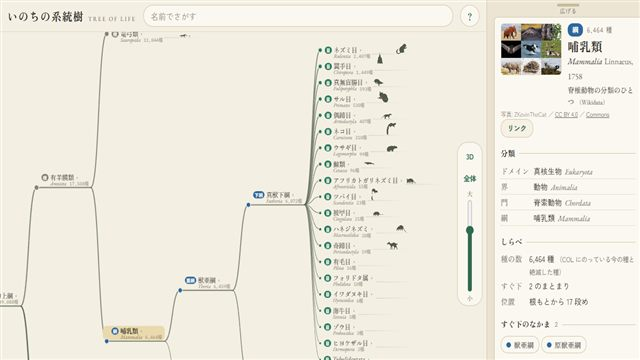
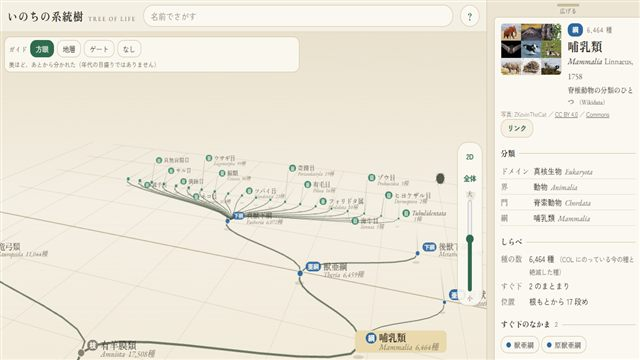
v012-3d-default いのちの系統樹: はじめから 3D、詳細のつまみはドラッグでなめらかに大きさを変える（PC は左のふちでも）、3D のマウスは右で回転・左と中で平行移動、遠い名前を出しやすく、開いたときのカメラは親が画面に残るところまで

diff --git a/tree-of-life/js/view3d.js b/tree-of-life/js/view3d.js
@@ -26,7 +26,7 @@ const V3 = (() => {
   function P(x, y, z) {
     const dx = x - C0[0], dy = y - C0[1], dz = z - C0[2];
     const zc = dx * Fw[0] + dy * Fw[1] + dz * Fw[2];
-    if (zc < 20) return null;
+    if (!(zc >= 20)) return null;   // カメラのうしろ（NaN もここで落とす）
     const s = F / zc;
     return [W / 2 + (dx * R[0] + dy * R[1] + dz * R[2]) * s, H / 2 - (dx * U[0] + dy * U[1] + dz * U[2]) * s, s, zc];
   }
@@ -186,11 +186,20 @@ const V3 = (() => {
     // 名前を出すか決める（えらんだもの・手前を優先。うんと遠いものは出さない）
     labels.sort((x, y) => (y.n === sel) - (x.n === sel) || x.p[3] - y.p[3]);
     for (const L of labels) {
-      if (L.kr < 0.22 && L.n !== sel) continue;   // うんと遠いものは名前を出さない
-      const lw = L.n.lw * L.k + 10;
-      const rect = [L.p[0] - L.r - 4, L.p[1] - L.fs * 1.5, L.p[0] + L.r + 6 + lw, L.p[1] + L.fs * 0.7];
-      if (taken.some(t => rect[0] < t[2] && t[0] < rect[2] && rect[1] < t[3] && t[1] < rect[3])) continue;
-      taken.push(rect); L.show = true; L.rect = rect;
+      if (L.kr < 0.1 && L.n !== sel) continue;   // うんと遠いものは名前を出さない
+      // 遠い（字が小さい）ものは名前（1段め）だけの小さな札にして、場所を取りすぎないように
+      L.one = L.fs < 10.5 && L.n !== sel;
+      const parts = V.labelParts(L.n);
+      const w1 = (V.tw(parts.main, "14px 'Zen Old Mincho','Yu Mincho',serif") + (parts.tag ? 24 : 0)) * L.k + 8;
+      const lw = L.one ? w1 : Math.max(w1, L.n.lw * L.k + 10);
+      const m = 2;   // 少しの重なりは許す
+      const free = rc => !taken.some(t => rc[0] + m < t[2] && t[0] + m < rc[2] && rc[1] + m < t[3] && t[1] + m < rc[3]);
+      // 置き場所の候補: 点の右 → 少し上 → 少し下（ずらしたときは細い線で点とつなぐ）
+      const hh = L.fs * (L.one ? 1.5 : 2.2);
+      for (const dy of [0, -hh, hh, -2 * hh]) {
+        const rect = [L.p[0] - L.r - 3, L.p[1] + dy - L.fs * (L.one ? 1.3 : 1.5), L.p[0] + L.r + 4 + lw, L.p[1] + dy + L.fs * (L.one ? 0.2 : 0.7)];
+        if (free(rect)) { taken.push(rect); L.show = true; L.rect = rect; L.dy = dy; break; }
+      }
     }
     // 遠いものから描く（手前が上に）
     labels.sort((x, y) => y.p[3] - x.p[3]);
@@ -198,7 +207,7 @@ const V3 = (() => {
     for (const L of labels) {
       const { p, n, k, fs, r, a } = L;
       const col = GROUP_COLOR[RANK_GROUP(n.rank)];
-      g.globalAlpha = a * (n.alpha === undefined ? 1 : n.alpha);
+      g.globalAlpha = (L.show ? Math.max(0.6, a) : a) * (n.alpha === undefined ? 1 : n.alpha);   // 名前を出すものは、遠くても うすくしすぎない
       // 地面への影（立っている感じ）
       const pg = P(X(n), GROUND, Z(n));
       if (pg) { g.fillStyle = 'rgba(90,80,50,.18)'; g.beginPath(); g.ellipse(pg[0], pg[1], r * 1.6, r * 0.5, 0, 0, 7); g.fill(); }
@@ -207,7 +216,8 @@ const V3 = (() => {
       picks.push({ n, x: p[0], y: p[1], rect: L.show ? L.rect : [p[0] - r - 6, p[1] - r - 6, p[0] + r + 6, p[1] + r + 6] });
       if (!L.show) continue;
       const parts = V.labelParts(n);
-      const ly = p[1] - fs * 0.75;
+      const ly = p[1] - fs * 0.75 + (L.dy || 0);
+      if (L.dy) { g.strokeStyle = 'rgba(110,103,87,.45)'; g.lineWidth = 0.8; g.beginPath(); g.moveTo(p[0], p[1]); g.lineTo(p[0] + r + 3, ly + fs * 0.35); g.stroke(); }
       if (n === sel || n === hov) {
         g.fillStyle = n === sel ? '#ead9ad' : '#ebe3cf';
         const [x0, y0, x1, y1] = L.rect; roundRect(g, x0, y0, x1 - x0, y1 - y0, 8); g.fill();
@@ -223,7 +233,7 @@ const V3 = (() => {
       g.fillStyle = '#2c2a24';
       g.font = parts.sciMain ? `italic ${fs.toFixed(1)}px 'EB Garamond',Georgia,serif` : `${n === sel ? 700 : 400} ${fs.toFixed(1)}px 'Zen Old Mincho','Yu Mincho',serif`;
       g.fillText(parts.main, x, ly);
-      if (fs >= 10 && (parts.sci || parts.cnt)) {
+      if (!L.one && (parts.sci || parts.cnt)) {
         g.fillStyle = '#7a7262';
         g.font = `italic ${(11.5 * k).toFixed(1)}px 'EB Garamond',Georgia,serif`;
         g.fillText(parts.sci + (parts.cnt ? '  ' + parts.cnt : ''), x, ly + 13 * k);
@@ -232,7 +242,7 @@ const V3 = (() => {
     g.globalAlpha = 1;
     shown = labels.filter(l => l.show).map(l => l.n);
     // いきもの（名前を出したものの右に）
-    C.draw3d(g, n => { const L = labels.find(l => l.n === n && l.show); return L ? { x: L.rect[2] + 4, y: L.p[1] + 4 * L.k, s: L.k } : null; });
+    C.draw3d(g, n => { const L = labels.find(l => l.n === n && l.show); if (!L) return null; const x = L.rect[2] + 4, y = L.p[1] + (L.dy || 0) + 4 * L.k, rc = [x, y - 28 * L.k, x + 90 * L.k, y]; if (taken.some(t => t !== L.rect && rc[0] < t[2] && t[0] < rc[2] && rc[1] < t[3] && t[1] < rc[3])) return null; return { x, y, s: L.k }; /* ほかの名前にかぶるところには出さない */ });
   }
   function roundRect(g, x, y, w, h, r) { g.beginPath(); g.moveTo(x + r, y); g.arcTo(x + w, y, x + w, y + h, r); g.arcTo(x + w, y + h, x, y + h, r); g.arcTo(x, y + h, x, y, r); g.arcTo(x, y, x + w, y, r); g.closePath(); }
 
@@ -258,7 +268,20 @@ const V3 = (() => {
   // あるふしを見る（なめらかに）
   function glideTo(n, ms = 600) {
     if (!n || n.lv === undefined) return;
-    const to = { tx: n.y, tz: n.lv * DZ + DZ * 2 }, from = { tx: cam.tx, tz: cam.tz }, s = performance.now();
+    // 進みすぎない: 子の並ぶ少し手前を見る。開いたふし（親）が画面の下のはしに残るか、たしかめて少しずつもどす
+    const kids = V.kidsOf(n).filter(k => k.y !== undefined);
+    const kx = kids.length ? (kids[0].y + kids[kids.length - 1].y) / 2 : n.y;
+    const save = { tx: cam.tx, tz: cam.tz };
+    let to = null;
+    for (const ahead of [0.85, 0.6, 0.35, 0.1, -0.2]) {
+      const c = { tx: n.y + (kx - n.y) * 0.6, tz: n.lv * DZ + DZ * ahead };
+      cam.tx = c.tx; cam.tz = c.tz; setup();
+      const p = P(n.y, 0, n.lv * DZ);
+      to = c;
+      if (p && p[1] < H - 36 && p[1] > 40 && p[0] > 20 && p[0] < W - 70) break;
+    }
+    cam.tx = save.tx; cam.tz = save.tz;
+    const from = { tx: cam.tx, tz: cam.tz }, s = performance.now();
     (function f(t) {
       const u = Math.min(1, (t - s) / ms), e = u * u * (3 - 2 * u);
       cam.tx = from.tx + (to.tx - from.tx) * e; cam.tz = from.tz + (to.tz - from.tz) * e;
@@ -279,6 +302,7 @@ const V3 = (() => {
     }
     const to = { tx: (x0 + x1) / 2, tz: (z0 + z1) / 2 * DZ + DZ * 0.5,
       dist: Math.max(500, Math.min(6000, Math.max((x1 - x0) * 1.15, (z1 - z0 + 2) * DZ * 1.25))) };
+    if (!(ms > 0)) { Object.assign(cam, to); V.draw(); return; }   // すぐに置く（0 で割らない）
     const from = { tx: cam.tx, tz: cam.tz, dist: cam.dist }, s = performance.now();
     (function f(t) {
       const u = Math.min(1, (t - s) / ms), e = u * u * (3 - 2 * u);

diff --git a/tree-of-life/js/main.js b/tree-of-life/js/main.js
@@ -83,7 +83,9 @@ let drag = null, pinch = null;
 cv.addEventListener('pointerdown', e => {
   try { cv.setPointerCapture(e.pointerId); } catch (_) { }   // 作ったイベント（テスト）では失敗する
   pts.set(e.pointerId, [e.offsetX, e.offsetY]);
-  if (pts.size === 1) drag = { x: e.offsetX, y: e.offsetY, cx: V.cam.x, cy: V.cam.y, moved: 0, lx: e.offsetX, ly: e.offsetY, pan: e.shiftKey || e.button === 2 };
+  if (pts.size === 1) drag = { x: e.offsetX, y: e.offsetY, cx: V.cam.x, cy: V.cam.y, moved: 0, lx: e.offsetX, ly: e.offsetY,
+    // 3D のマウス: 左ドラッグ・中ボタン = 平行移動、右ドラッグ・Shift＋左 = 回転。指（タッチ）は1本で回転
+    rot: e.pointerType === 'mouse' ? (e.button === 2 || (e.button === 0 && e.shiftKey)) : true };
   if (pts.size === 2) {
     const [a, b] = [...pts.values()];
     if (V3.on) { pinch = { d: Math.hypot(a[0] - b[0], a[1] - b[1]), mx: (a[0] + b[0]) / 2, my: (a[1] + b[1]) / 2 }; drag = null; return; }
@@ -116,7 +118,7 @@ cv.addEventListener('pointermove', e => {
       // 3D: ドラッグでぐるぐる回す（Shift か右ボタンでずらす）
       if (drag.moved > 5) {
         const mx = e.offsetX - drag.lx, my = e.offsetY - drag.ly;
-        if (drag.pan || e.shiftKey) V3.pan(mx, my); else V3.orbit(mx, my);
+        if (drag.rot) V3.orbit(mx, my); else V3.pan(mx, my);
         redraw(false);
       }
       drag.lx = e.offsetX; drag.ly = e.offsetY;
@@ -143,7 +145,8 @@ function up(e) {
 cv.addEventListener('pointerup', up);
 cv.addEventListener('pointercancel', up);
 cv.addEventListener('pointerleave', () => { V.hover = null; redraw(false); });
-cv.addEventListener('contextmenu', e => { if (V3.on) e.preventDefault(); });   // 3D: 右ドラッグでずらすため
+cv.addEventListener('contextmenu', e => { if (V3.on) e.preventDefault(); });   // 3D: 右ドラッグで回すため
+cv.addEventListener('mousedown', e => { if (e.button === 1) e.preventDefault(); });   // 中ボタンの自動スクロールを出さない
 cv.addEventListener('wheel', e => {
   e.preventDefault();
   if (V3.on) {   // 3D: ホイールで近づく・はなれる。横の量（トラックパッド）で回す
@@ -231,14 +234,52 @@ gbar.addEventListener('click', e => {
 });
 try { const gsv = localStorage.getItem('tol-guide'); if (gsv) { V3.guide = gsv; gbar.querySelectorAll('button[data-g]').forEach(x => x.setAttribute('aria-pressed', String(x.dataset.g === gsv))); } } catch (e) { }
 
-// ---------- 詳細の欄: はじめはコンパクト、つまみで広げる・縮める（樹形図を広く見せるため） ----------
-const grip = document.getElementById('grip');
-grip.onclick = () => {
-  const wide = !document.getElementById('app').classList.toggle('wide') ? false : true;
-  grip.setAttribute('aria-expanded', String(wide));
-  grip.querySelector('.lbl').textContent = wide ? '縮める' : '広げる';
-  if (!wide) document.getElementById('side').scrollTop = 0;
-};
+// ---------- 詳細の欄: はじめはコンパクト。つまみを押すと広げる・縮める、ドラッグで好きな大きさに（なめらかに） ----------
+//   スマホ: 下の板の高さ（--sheet-h）。PC: 右の欄の幅（--side-w）。上のつまみと、PC は左のふち（#edge）でも
+const app = document.getElementById('app'), grip = document.getElementById('grip'), edge = document.getElementById('edge'), side = document.getElementById('side');
+const isPC = () => window.matchMedia('(min-width: 900px)').matches;
+const SZ = { h0: 200, w0: 320, w1: 460 };
+const h1 = () => Math.round(innerHeight * 0.72);
+let sheetH = SZ.h0, sideW = SZ.w0;
+function applySize() {
+  app.style.setProperty('--sheet-h', sheetH + 'px');
+  app.style.setProperty('--side-w', sideW + 'px');
+  const big = isPC() ? sideW > (SZ.w0 + SZ.w1) / 2 : sheetH > (SZ.h0 + h1()) / 2;
+  grip.setAttribute('aria-expanded', String(big));
+  grip.querySelector('.lbl').textContent = big ? '縮める' : '広げる';
+  app.classList.toggle('tall', !isPC() && sheetH > innerHeight * 0.45);   // スマホで板が高いときは大きさのつまみをかくす
+}
+function toggleSize() {
+  if (isPC()) sideW = sideW > (SZ.w0 + SZ.w1) / 2 ? SZ.w0 : SZ.w1;
+  else sheetH = sheetH > (SZ.h0 + h1()) / 2 ? SZ.h0 : h1();
+  applySize();
+  if (grip.getAttribute('aria-expanded') === 'false') side.scrollTop = 0;
+}
+function dragSize(el, horizontal) {
+  el.addEventListener('pointerdown', e => {
+    e.preventDefault();
+    try { el.setPointerCapture(e.pointerId); } catch (_) { }
+    const sx = e.clientX, sy = e.clientY;
+    let moved = false;
+    const move = ev => {
+      if (!moved && Math.hypot(ev.clientX - sx, ev.clientY - sy) < 4) return;
+      moved = true; app.classList.add('dragging');
+      if (horizontal && isPC()) sideW = Math.round(Math.max(260, Math.min(Math.min(760, innerWidth * 0.6), innerWidth - ev.clientX)));
+      else if (!isPC()) sheetH = Math.round(Math.max(110, Math.min(innerHeight * 0.88, innerHeight - ev.clientY + 14)));
+      applySize();
+    };
+    const up = () => {
+      el.removeEventListener('pointermove', move); el.removeEventListener('pointerup', up); el.removeEventListener('pointercancel', up);
+      app.classList.remove('dragging');
+      if (!moved) toggleSize();
+    };
+    el.addEventListener('pointermove', move); el.addEventListener('pointerup', up); el.addEventListener('pointercancel', up);
+  });
+}
+dragSize(grip, true);   // PC では上のつまみを左右に、スマホでは上下に
+dragSize(edge, true);
+applySize();
+window.addEventListener('resize', applySize);
 
 // ---------- 使い方（？）のポップアップ ----------
 const helpBtn = document.getElementById('helpbtn'), help = document.getElementById('help');
@@ -274,6 +315,7 @@ async function startView() {
       : Math.max(Math.min(12 - narrow.x * k, AW - (b.right + 90) * k), 6 - narrow.jx * k);
     V.cam.y = H / 2 - (b.top + b.bottom) / 2 * k;
     V.draw();
+    if (V3.on) V3.frame(mam, 0);   // 3D でも、哺乳類から下が入るように（大きさが変わったときも）
   };
   place(mam);
   setStatus('哺乳類のなかまを読みこみ中…');
@@ -290,9 +332,11 @@ async function startView() {
   setStatus('');
   if (touched) return;   // 読みこみの間にさわっていたら、そのまま
   place(n);
+  if (V3.on) V3.frame(mam);   // はじめは 3D: 哺乳類から目のならびが入るように
   UI.show(mam);   // すぐ下のなかまが読めたので、詳細を出しなおす
 }
 V.resize();
+set3d(true);   // はじめから 3D（2D へはボタンで）
 fromHash().then(ok => { if (!ok) startView(); });
 
 // デバッグ用（RULES 5）: 状態を見る・押す・探す

diff --git a/tree-of-life/css/style.css b/tree-of-life/css/style.css
@@ -74,19 +74,21 @@ html,body{height:100%;overflow:hidden}
 #guide3d button{border:1px solid var(--rule);background:var(--card);border-radius:12px;padding:2px 10px;min-height:30px;font-size:12.5px;cursor:pointer;color:var(--ink)}
 #guide3d button[aria-pressed="true"]{background:var(--acc);border-color:var(--acc);color:#fbf8f1}
 #guide3d .gnote{flex-basis:100%;color:var(--sub);font-size:11px}
+@media (max-width:599px){#guide3d .gnote{display:none}}   /* スマホは樹形図を広く（説明は？の中に） */
 #status{position:absolute;left:10px;bottom:10px;margin:0;font-size:12.5px;color:#7a560f;max-width:calc(100% - 90px);background:rgba(251,248,241,.94);border:1px solid var(--rule);border-radius:12px;padding:3px 10px;font-family:var(--f-mincho)}
 #status:empty{display:none}
 
 /* 詳細: 図鑑の1ページ */
-#side{position:relative;flex:none;height:200px;overflow:auto;padding:0 12px 24px;line-height:1.7;background:var(--paper2);border-top:1px solid var(--rule);box-shadow:0 -6px 18px rgba(80,60,20,.08);transition:height .25s ease;overscroll-behavior:contain}
-#app.wide #side{height:72svh}
-#app.wide #zoom .zl,#app.wide #zs{display:none}   /* スマホで詳細を広げている間は、樹形図がせまいので大きさのつまみはかくす（ピンチで） */
+#side{position:relative;flex:none;height:var(--sheet-h,200px);overflow:auto;padding:0 12px 24px;line-height:1.7;background:var(--paper2);border-top:1px solid var(--rule);box-shadow:0 -6px 18px rgba(80,60,20,.08);transition:height .25s ease;overscroll-behavior:contain}
+#app.dragging #side{transition:none}
+#app.tall #zoom .zl,#app.tall #zs{display:none}   /* スマホで詳細を広げている間は、樹形図がせまいので大きさのつまみはかくす（ピンチで） */
 #zoom{max-height:calc(100% - 12px)}
 /* つまみ: 押すと広げる・縮める */
-#grip{position:sticky;top:0;z-index:2;display:flex;flex-direction:column;align-items:center;gap:1px;width:100%;border:0;background:var(--paper2);padding:6px 0 4px;cursor:pointer;color:var(--sub);font-size:11px}
+#grip{position:sticky;top:0;z-index:2;touch-action:none;display:flex;flex-direction:column;align-items:center;gap:1px;width:100%;border:0;background:var(--paper2);padding:6px 0 4px;cursor:pointer;color:var(--sub);font-size:11px}
 #grip .bar{width:44px;height:5px;border-radius:3px;background:#c9bc9c}
 #grip:hover .bar{background:var(--acc)}
 #grip .lbl{line-height:1.2}
+#edge{display:none}
 #detail{background:var(--card);border:1px solid var(--rule);border-radius:6px;padding:10px 12px 12px;box-shadow:0 1px 0 var(--rule2),0 6px 18px rgba(80,60,20,.06)}
 #detail .d-rank{display:flex;align-items:center;gap:8px;font-size:12px;color:var(--sub);letter-spacing:.1em}
 #detail .tag{color:#fbf8f1;font-weight:700;font-size:12px;padding:1px 9px;border-radius:10px;letter-spacing:0}
@@ -153,12 +155,15 @@ a{color:var(--acc)}
 /* パソコン: 樹形図を左いっぱい、詳細は右 */
 @media (min-width:900px){
   /* パソコン: 樹形図を左に広く、詳細は右の細い欄（つまみで広げる） */
-  #app{display:grid;grid-template-columns:1fr 320px;height:100vh}
-  #app.wide{grid-template-columns:1fr 460px}
+  #app{display:grid;grid-template-columns:1fr var(--side-w,320px);height:100vh;position:relative;transition:grid-template-columns .25s ease}
+  #app.dragging{transition:none}
+  /* 詳細の左のふち: ドラッグで幅をなめらかに変える */
+  #edge{display:block;position:absolute;top:0;bottom:0;right:calc(var(--side-w,320px) - 5px);width:10px;z-index:4;cursor:col-resize;touch-action:none}
+  #edge::after{content:'';position:absolute;left:4px;top:calc(50% - 22px);width:3px;height:44px;border-radius:2px;background:#c9bc9c;opacity:.0;transition:opacity .2s}
+  #edge:hover::after,#app.dragging #edge::after{opacity:1;background:var(--acc)}
   #pin{height:100vh;border-right:1px solid var(--rule)}
   #side{height:100vh;border-top:0;box-shadow:none;padding:0 14px 24px}
-  #app.wide #side{height:100vh}
-  #app.wide #zoom .zl,#app.wide #zs{display:revert}
+  #app.tall #zoom .zl,#app.tall #zs{display:revert}
   .d-thumb{width:120px;height:90px}
   #top{padding:8px 14px;gap:14px}
   #top h1{font-size:20px;flex-direction:row;align-items:baseline;gap:8px;letter-spacing:.08em}

diff --git a/tree-of-life/launcher.html b/tree-of-life/launcher.html
@@ -41,7 +41,7 @@ td a{color:var(--ink)}
   </section>
   <section>
     <h2>すべてのバックアップ</h2>
-    <table><tr><td>v001-start</td><td><a href="versions/v001-start/index.html">雛形（new-app.ps1）</a></td><td>2026-10-15</td></tr><tr><td>v002-stage-a</td><td>段階A: 界〜綱の樹形図（COL × Open Tree）、綱より下は COL から、和名・検索・詳細（Git）</td><td>2026-10-15</td></tr><tr><td>v003-zukan</td><td>図鑑風の見た目、やわらかい枝と開く・閉じるアニメ、詳細に図（Commons）（Git）</td><td>2026-10-15</td></tr><tr><td>v004-two-line</td><td>名前を2段（和名・学名）、閉じると子は親の名前の裏へ、はじめは哺乳類の目から（Git）</td><td>2026-10-15</td></tr><tr><td>v005-compact</td><td>ヘッダーを細く・使い方は？に・大きさはたてのつまみ・全体ボタンを直す・はじめの画面を真ん中に（Git）</td><td>2026-10-15</td></tr><tr><td>v006-play</td><td>シルエットが動く（PhyloPic）・どこで分かれた？・ふしぎ旅（Git）</td><td>2026-10-15</td></tr><tr><td>v007-links</td><td>詳細に「すぐ下のなかま」・リンクで共有・トラックパッドで動かす（Git）</td><td>2026-10-15</td></tr><tr><td>v008-wheel</td><td>ホイールで拡大・縮小できなくなっていたのを直す（Git）</td><td>2026-10-15</td></tr><tr><td>v009-perf</td><td>たくさん開いても軽く（画面の中だけ描く・小さいときは名前を省く・枝をまとめて描く）（Git）</td><td>2026-10-15</td></tr><tr><td>v010-no-overlap</td><td>開いた名前が上の行に重ならないように・旅をいったん外す（Git）</td><td>2026-10-15</td></tr><tr><td>v011-3d</td><td>3D でぐるぐる回せる（ガイド3種）・詳細をコンパクトにしてつまみで広げる・写真は押すと拡大（Git）</td><td>2026-10-15</td></tr></table>
+    <table><tr><td>v001-start</td><td><a href="versions/v001-start/index.html">雛形（new-app.ps1）</a></td><td>2026-10-15</td></tr><tr><td>v002-stage-a</td><td>段階A: 界〜綱の樹形図（COL × Open Tree）、綱より下は COL から、和名・検索・詳細（Git）</td><td>2026-10-15</td></tr><tr><td>v003-zukan</td><td>図鑑風の見た目、やわらかい枝と開く・閉じるアニメ、詳細に図（Commons）（Git）</td><td>2026-10-15</td></tr><tr><td>v004-two-line</td><td>名前を2段（和名・学名）、閉じると子は親の名前の裏へ、はじめは哺乳類の目から（Git）</td><td>2026-10-15</td></tr><tr><td>v005-compact</td><td>ヘッダーを細く・使い方は？に・大きさはたてのつまみ・全体ボタンを直す・はじめの画面を真ん中に（Git）</td><td>2026-10-15</td></tr><tr><td>v006-play</td><td>シルエットが動く（PhyloPic）・どこで分かれた？・ふしぎ旅（Git）</td><td>2026-10-15</td></tr><tr><td>v007-links</td><td>詳細に「すぐ下のなかま」・リンクで共有・トラックパッドで動かす（Git）</td><td>2026-10-15</td></tr><tr><td>v008-wheel</td><td>ホイールで拡大・縮小できなくなっていたのを直す（Git）</td><td>2026-10-15</td></tr><tr><td>v009-perf</td><td>たくさん開いても軽く（画面の中だけ描く・小さいときは名前を省く・枝をまとめて描く）（Git）</td><td>2026-10-15</td></tr><tr><td>v010-no-overlap</td><td>開いた名前が上の行に重ならないように・旅をいったん外す（Git）</td><td>2026-10-15</td></tr><tr><td>v011-3d</td><td>3D でぐるぐる回せる（ガイド3種）・詳細をコンパクトにしてつまみで広げる・写真は押すと拡大（Git）</td><td>2026-10-15</td></tr><tr><td>v012-3d-default</td><td>はじめから 3D・つまみをドラッグで・右で回転／左と中で平行移動・遠い名前を出しやすく（Git）</td><td>2026-10-15</td></tr></table>
   </section>
 </main>
 </body>

diff --git a/tree-of-life/index.html b/tree-of-life/index.html
@@ -18,10 +18,10 @@
       <button id="helpbtn" aria-expanded="false" aria-controls="help" title="使い方">？</button>
       <div id="help" hidden>
         <p>名前を押すと、その先の枝が開きます。もう一度押すと閉じます。</p>
-        <p>ドラッグで動かし、右のつまみ・ホイール・ピンチで大きさを変えます。「全体」で、いま開いている枝がぜんぶ入ります。</p>
+        <p>ドラッグで動かし、右のつまみ・ホイール・ピンチで大きさを変えます。下（PC は右）の詳細は、つまみを押すと広げる・縮める、ドラッグで好きな大きさにできます。「全体」で、いま開いている枝がぜんぶ入ります。</p>
         <p>「ライオン」「シイタケ」「Homo sapiens」のように、和名でも学名でもさがせます。</p>
         <p>名前の右で動くシルエットを押すと、その詳細が出ます。動き方は演出です。</p>
-        <p>「3D」で、手前（根もと）から奥（枝分かれの先）をながめられます。ドラッグで回し、Shift か右ドラッグ・2本指でずらします。ガイドは方眼・地層・ゲートから選べます。奥行きは枝分かれの段で、年代の目盛りではありません。</p>
+        <p>はじめは 3D で、手前（根もと）から奥（枝分かれの先）をながめます。マウスは右ドラッグ（か Shift＋左ドラッグ）で回し、左ドラッグか中ボタンのドラッグで動かします。指は1本で回し、2本でずらす・ピンチで近づきます。「2D」でふつうの図にもどせます。ガイドは方眼・地層・ゲートから選べます。奥行きは枝分かれの段で、年代の目盛りではありません。</p>
         <p>詳細の「リンク」で、いま見ているところを人に送れます。</p>
         <label class="tog"><input type="checkbox" id="critter-on" checked> シルエットを動かす</label>
         <p class="lg-title">名札の色は分類の段</p>
@@ -47,6 +47,7 @@
     </main>
   </div>
 
+  <div id="edge" title="ドラッグで詳細の幅を変える（押すと広げる・縮める）"></div>
   <aside id="side">
     <button id="grip" aria-expanded="false" title="詳細を広げる・縮める"><span class="bar"></span><span class="lbl">広げる</span></button>
     <section id="detail"></section>

diff --git a/tree-of-life/DEVNOTES.md b/tree-of-life/DEVNOTES.md
@@ -1,7 +1,7 @@
 # いのちの系統樹 開発メモ
 
 ## 別セッションで続けるとき（まずここ）
-- いまの状態: v011-3d（3D でぐるぐる回せる・ガイド3種・詳細はコンパクトでつまみで広げる・写真は小さく押すと拡大・先がある枝にうっすら線）。「どこで分かれた？」はユーザーの指示でいったん画面から外した（compare.js は残してある。`#c=` のリンクは動く）。その前 v010-no-overlap（開いた名前が上の行に重ならない・旅を外した）。その前 v009-perf（たくさん開いても軽く）。その前 v007-links（すぐ下のなかまを詳細に・リンクで共有・トラックパッド）。その前 v006-play（シルエットが名前の右で動く・「どこで分かれた？」・ふしぎ旅）。ユーザー: おもしろそうな要素はどんどん入れて、だめそうなものは外す。保管庫（archive.html）に掲載。入口には載せない（RULES 8.1）。日本語だけ。
+- いまの状態: v012-3d-default（はじめから 3D・つまみはドラッグでなめらかに・3D のマウスは右で回転／左と中で平行移動・遠い名前を出しやすく・開いたときのカメラは親が画面に残るところまで）。その前 v011-3d（3D でぐるぐる回せる・ガイド3種・詳細はコンパクトでつまみで広げる・写真は小さく押すと拡大・先がある枝にうっすら線）。「どこで分かれた？」はユーザーの指示でいったん画面から外した（compare.js は残してある。`#c=` のリンクは動く）。その前 v010-no-overlap（開いた名前が上の行に重ならない・旅を外した）。その前 v009-perf（たくさん開いても軽く）。その前 v007-links（すぐ下のなかまを詳細に・リンクで共有・トラックパッド）。その前 v006-play（シルエットが名前の右で動く・「どこで分かれた？」・ふしぎ旅）。ユーザー: おもしろそうな要素はどんどん入れて、だめそうなものは外す。保管庫（archive.html）に掲載。入口には載せない（RULES 8.1）。日本語だけ。
 - 次にやること: ユーザーに見てもらって感想を聞く → PLAN.md の「段階B以降」から選ぶ（年代の目盛り・写真・綱より下も系統の形に、など）。
 - 読む順: PLAN.md（「調べたこと」に情報量と利用条件）→ このファイルの「ファイル構成」→ 関係するファイルだけ。
 - 動かし方: サーバー apps（.claude/launch.json）で http://localhost:8765/tree-of-life/ 。デバッグ用の窓口 `window.__trofli`（`find(学名か和名)`・`press(学名)`・`reveal(COL id)`・`T`・`V`・`UI`）、エラーは `window.__trofliErr`。
@@ -55,11 +55,14 @@
   - 当たり判定といきものは、さっき名前を描いたふし（`V.drawn`）だけ見る。見えているかは `V.isVis`（Set）。
   - 確かめ方: `for (const n of T.nodes) n.open = true` ＋いくつかの綱・目を `T.loadKids` で読んでから、`V.layout()`・`V.draw()`・`V.hit()` を時間を測ってくり返す。
 - **3D**（v011, view3d.js）: 根もとを手前、枝分かれの先を奥（z = 段 `n.lv` × 130。名前のある段で1、名前のない分かれ目は 0.35）、2D のたての並び（`n.ay`）を左右に、地面（y=0）に寝かせる。カメラは見る点のまわりを回る（yaw・pitch・dist）。自前の透視投影（Canvas 2D）。枝はベジェを10点に分けて投影。遠いほどうすく（霧）。名前はいつもこちらを向く札で、手前・えらんだものを優先して重なるものは省く。字は 9px より小さくしない（うんと遠いものは出さない）。V.draw は 3D のとき `V.draw3d`（= V3.draw）に任せる（アニメやいきもののコマ送りはそのまま使える）。
-  - 操作: ドラッグで回す、Shift か右ドラッグでずらす、ホイール・ピンチ・つまみで近づく（つまみは 3D のときカメラの近さ）、2本指でずらす。押すと開く・閉じる（そのふしへカメラがすべる）。3D に入るとき、えらんでいるふしの先の枝が入るように `frame`。
+  - はじめから 3D（v012。`set3d(true)` を最初に、はじめの画面の `place` で `V3.frame(mam, 0)`。`frame(n, 0)` は時間 0 で 0÷0 にならないよう、すぐ置く）。
+  - 操作（v012）: マウスは右ドラッグか Shift＋左で回す、左ドラッグか中ボタンで平行移動（2D とそろえた）。指は1本で回す、2本でずらす・ピンチで近づく。ホイール・つまみで近づく（つまみは 3D のときカメラの近さ）。押すと開く・閉じる。
+  - 開いたときのカメラ（v012, `glideTo`）: 子の並ぶ少し手前を見る（0.85 段先から）。開いたふし（親）の点が画面の中（下のはしに残る）でなければ、0.6・0.35… と手前にもどして決める。3D に入るときは `frame`（えらんでいるふしの先の枝が入るように）。
+  - 名前（v012）: 字は 9px 以上。遠い（10.5px 未満）ものは名前（1段め）だけの小さな札。置き場所は点の右 → 上 → 下（ずらしたら細い線で点とつなぐ）、少しの重なりは許す。名前を出すものは遠くてもうすくしすぎない（0.6 以上）。いきものは、ほかの名前にかぶるところには出さない。
   - ガイド（見比べ用、localStorage に好みを）: 方眼の地面（段ごとの線、5段ごとに数字）・地層の帯（5段ごとの色の帯。1段ずつの板に分けて描くので手前がカメラのうしろでも欠けない）・ゲート（5段ごとに門）・なし。奥行きは枝分かれの段で、年代の目盛りではないと画面に書いた。
   - いきもの: 3D では名前の札の右に（`C.draw3d`、押せる `C.hit3`）。
 - **まだ先がある枝**（v011）: 閉じていて開けるまとまりは、2D では名前の右へ、3D では奥へ、うっすら線をのばす（2D ではシルエットがこの線の上を歩く）。
-- **詳細の欄**（v011）: スマホは下から出る板（はじめ 200px、つまみ `#grip` で 72svh）、PC は右の欄（はじめ 320px、つまみで 460px）。いちばん上はまなびラボの入口のカードと同じ「左に小さな図・右に名前と説明」、図は押すと大きく（`#lightbox`、作者・条件つき）。写真がないときはシルエットを図のかわりに。リンクのボタンは図と説明の下、押しても文字を変えず（幅が変わって回りこむのがいやとユーザー）、知らせは樹形図の下に。
+- **詳細の欄**（v011・v012）: スマホは下から出る板（はじめ 200px、`--sheet-h`）、PC は右の欄（はじめ 320px、`--side-w`）。つまみ `#grip`（PC は左のふち `#edge` も）を押すと広げる・縮める（スマホ 72%・PC 460px）、ドラッグで好きな大きさに（`dragSize`。ドラッグ中はアニメなし）。スマホで板が高いとき（45% より上）は大きさのつまみをかくす。いちばん上はまなびラボの入口のカードと同じ「左に小さな図・右に名前と説明」、図は押すと大きく（`#lightbox`、作者・条件つき）。写真がないときはシルエットを図のかわりに。リンクのボタンは図と説明の下、押しても文字を変えず（幅が変わって回りこむのがいやとユーザー）、知らせは樹形図の下に。
 - **ふしぎ旅**（v006〜v009）: ランダムに枝を下って種まで連れていく機能。2026-10-15 ユーザーの指示でいったん外した（もどすときは v009-perf のコミットの main.js `trip`）。
 - **図**（2026-10-15 v003）: Wikidata の P18（写真）→ なければ英語版 Wikipedia の記事の代表の図（`pageimages`、pilicense=free）→ Commons の `imageinfo` で作者・条件を読み、CC0・パブリックドメイン・CC BY・CC BY-SA だけ出す（NC・ND・GFDL だけ・不明は出さない）。人とチンパンジーなどの写真は出さない（`NO_IMAGE`）、ファイル名・説明・カテゴリに裸・性器・交尾・死体などの語があるものも出さない（RULES 9）。作者の HTML は DOMParser で文字だけにする。
 - 押す: 選ぶ＋閉じていれば開く・選んでいて開いていれば閉じる。押した名前が画面の同じ場所に残るように cam を合わせ、子が右の外なら左へ寄せる（`reach`）。
@@ -83,8 +86,8 @@
 8. シルエット: はじめの画面で目の名前の右にシルエットが出て動く（スマホでも見える）。押すと詳細、詳細の下に作者・条件。`press('Eutheria')` を2回 → `V.tick()`・`C.step()` をくり返すと、0.3 秒で `C.count` が減る。
 9. どこで分かれた？: 帯の「例: ヒト×シイタケ」→ 2本の道すじだけ残って光り、「オピストコンタで分かれた」。ほかを押すともとにもどる。
 11. 詳細の「すぐ下のなかま」を押すとそこへ移る。押したあとアドレスが `#t=…` になり、そのアドレスを開きなおすと同じ生きもの。`#c=4CGXP,VS`（ライオンとネコ目）で「ライオン は ネコ目 のなかま」。
-12. 3D: 「3D」で手前から奥への眺め。ドラッグで回り、ガイド（方眼・地層・ゲート・なし）を切りかえられる。名前が読める。スマホでも。
-13. 詳細: はじめはカード1枚分、つまみで広がる。サムネイルを押すと大きく、×で閉じる。
+12. 3D: はじめから 3D（「2D」で切りかえ）。右ドラッグで回り、左・中ドラッグで平行移動、ガイド（方眼・地層・ゲート・なし）を切りかえられる。名前が読める。スマホでも。
+13. 詳細: はじめはカード1枚分、つまみを押すと広がる・ドラッグで好きな大きさ（PC は左のふちでも）。サムネイルを押すと大きく、×で閉じる。
 14. 「全体」で開いている枝がぜんぶ見える（何もない所にならない）。つまみを動かすと大きさが変わり、ホイールで変えるとつまみも動く。？で使い方と色の凡例が出て、外を押すと消える。
 15. 幅 375px: 上に樹形図が固定、詳細は下でスクロール、横にはみ出さない（`scrollWidth` 375）。
 
@@ -100,3 +103,4 @@
 - 2026-10-15 v009-perf: たくさん開いたときの負荷を軽く（名前の部品をおぼえる・画面の中だけ描く・小さいときは名前を省く・枝をまとめて描く・アニメは動いているものだけ）。1,889 ふしで当たり判定 17→0.1ms、全体の描画 23→0.4ms。
 - 2026-10-15 v010-no-overlap: 子が少ないまとまりを開くと、名前が1つ上の行に重なることがあったのを直す（その枝ごと下へずらす）。ふしぎ旅はユーザーの指示でいったん外した。
 - 2026-10-15 v011-3d: ユーザーの声で、3D でぐるぐる回して手前から奥へ眺められるように（ガイド: 方眼・地層・ゲート・なし）、先がある枝にうっすら線、詳細はコンパクトにしてつまみで広げる（スマホは下の板）、写真は小さく押すと拡大、リンクは図の下で文字を変えない、「どこで分かれた？」をいったん外す。
+- 2026-10-15 v012-3d-default: ユーザーの声で、はじめから 3D、つまみはドラッグでなめらかに大きさを変える、3D のマウスは右で回転・左と中で平行移動、遠い名前を出しやすく（1段の札・上下にずらす）、開いたときのカメラは親が画面に残るところまで。
